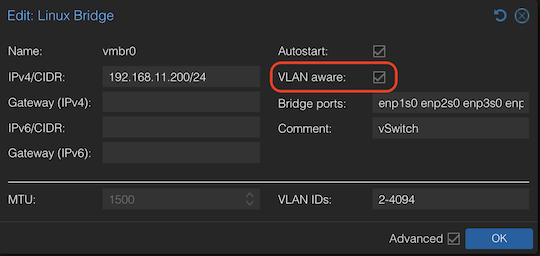
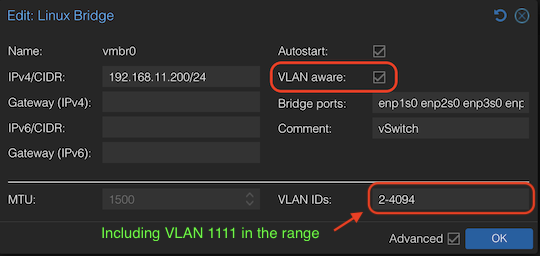
Turn br0 into VLAN-aware bridge and add one more mgmt VLAN

Changed region(s): [[0.6222, 0.6875, 1.0, 0.9062], [0.1778, 0.875, 0.5926, 0.9375], [0.8889, 0.9062, 0.9481, 0.9375]]

diff --git a/README.md b/README.md
@@ -1,8 +1,6 @@
 # CF WARP ROUTER
 CloudFlare WARP router for Proxmox VE, enjoy a premium internet route for your VMs and containers.
 
-**[Quick Start](#quick-start)**
-
 ## Why
 Does your ISP give you a terrible international route? Does `apt/dnf upgrade` or `git clone` crawl at KB/s? Do GitHub Actions artifacts or SourceForge downloads take hours? This router sends your outbound traffic over Cloudflare's network instead, which usually turns those KB/s into MB/s.
 
@@ -10,7 +8,7 @@ Does your ISP give you a terrible international route? Does `apt/dnf upgrade` or
 
 - **Ad blocking** – work out of the box with AdGuard Home plus DNS over HTTPS upstreams preconfigured.
 - **Kill switch** — if the tunnel drops, client traffic stops. No silent fallback to the plain ISP route.
-- **Easy configure** — clients just tag onto VLAN `1111`; no per-device configuration.
+- **Easy to configure** — clients just tag onto VLAN `1111`; no per-device configuration.
 
 ## Quick Start
 
@@ -19,12 +17,12 @@ Does your ISP give you a terrible international route? Does `apt/dnf upgrade` or
 > All the steps below can be done using the Proxmox VE web GUI, though not recommended.
 
 > [!IMPORTANT]
-> Your $BRIDGE (default is `vmbr0`) must have `VLAN aware` enabled, e.g.:<br>
+> Your BRIDGE (default is `vmbr0`) must have `VLAN aware` enabled, e.g.:<br>
 > ![Enable VLAN aware on the bridge](./assets/pve_bridge_vlan_aware.png)
 
-Obtaining OCI Images:
+Pulling the `cf-warp-router` OCI image:
 ```sh
-skopeo copy docker://docker.io/long025733/cf-warp-router:latest  oci-archive:/var/lib/vz/template/cache/cf-warp-router_latest.tar
+skopeo copy docker://ghcr.io/longqt-sea/cf-warp-router:latest oci-archive:/var/lib/vz/template/cache/cf-warp-router_latest.tar
 ```
 
 Create the container:
